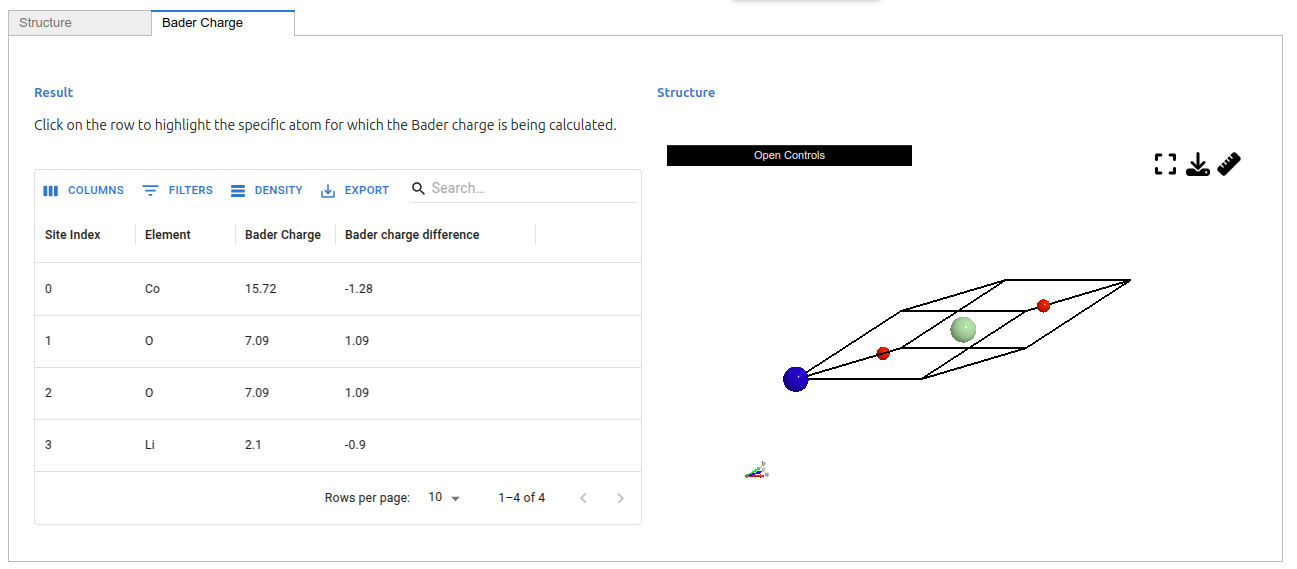
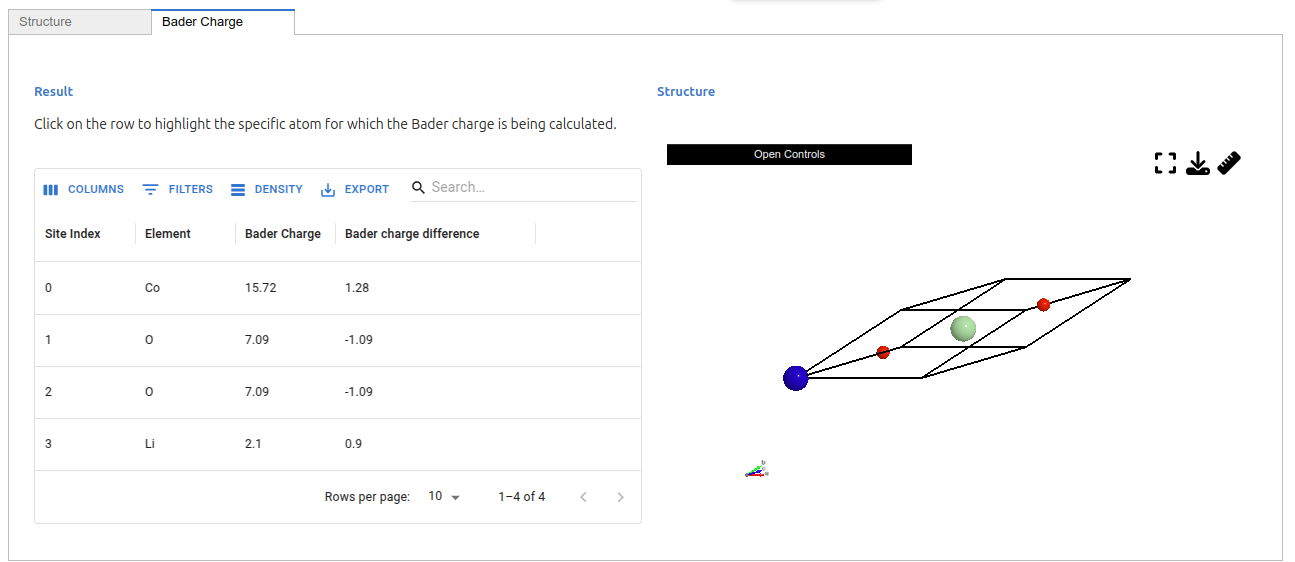
fix sign of charge difference

diff --git a/src/aiida_bader/qeapp/result/panel.py b/src/aiida_bader/qeapp/result/panel.py
@@ -52,7 +52,7 @@ class BaderResultsPanel(ResultsPanel[BaderResultsModel]):
             kind_name = site.kind_name
             if kind_name in self._model.z_valencces:
                 z_valence = self._model.z_valencces[kind_name]
-                charge_diff = charge - z_valence
+                charge_diff = z_valence - charge
             else:
                 charge_diff = None
             data.append(
